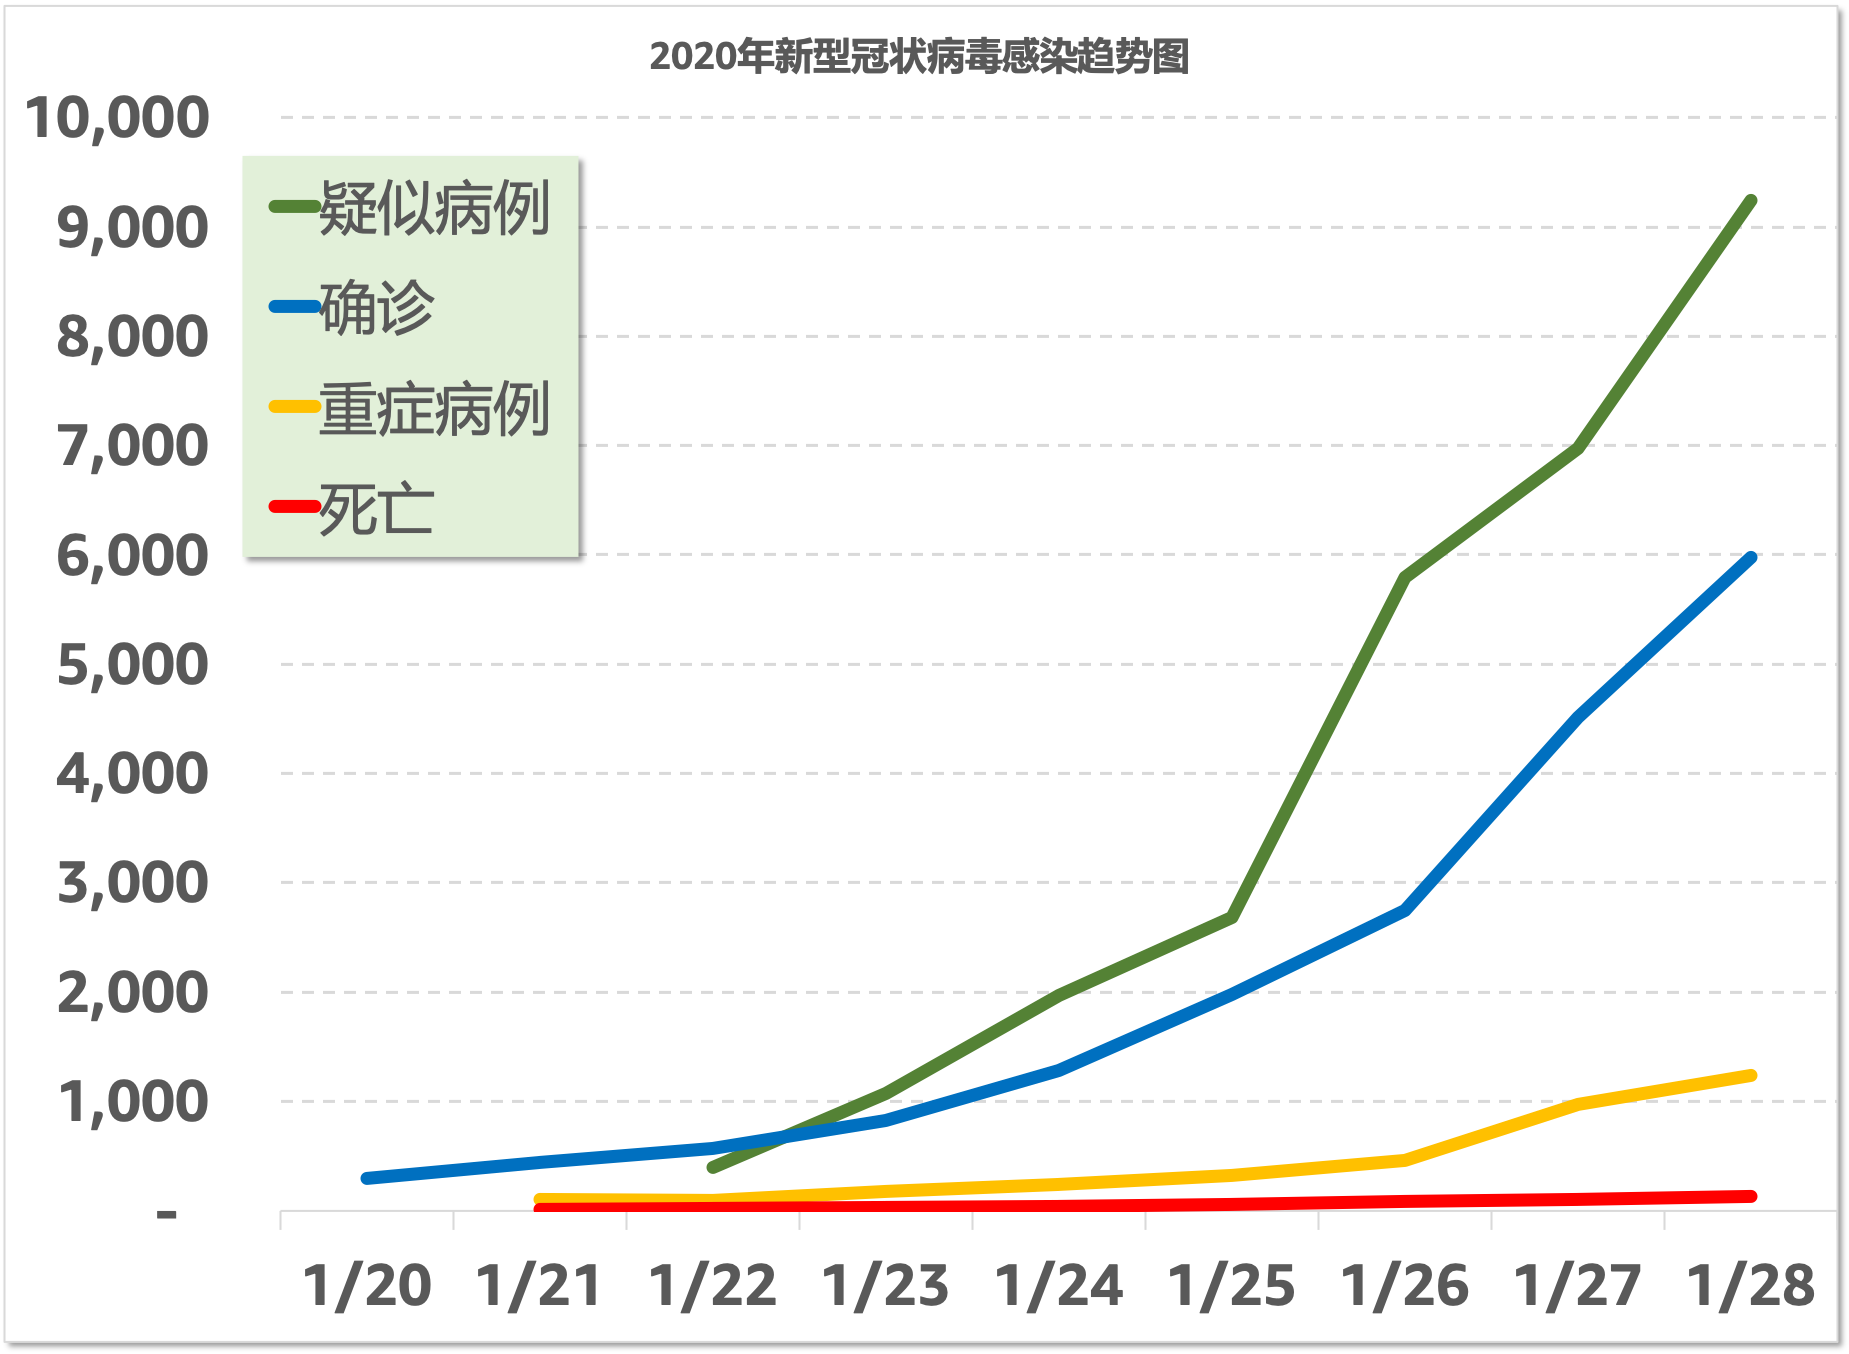
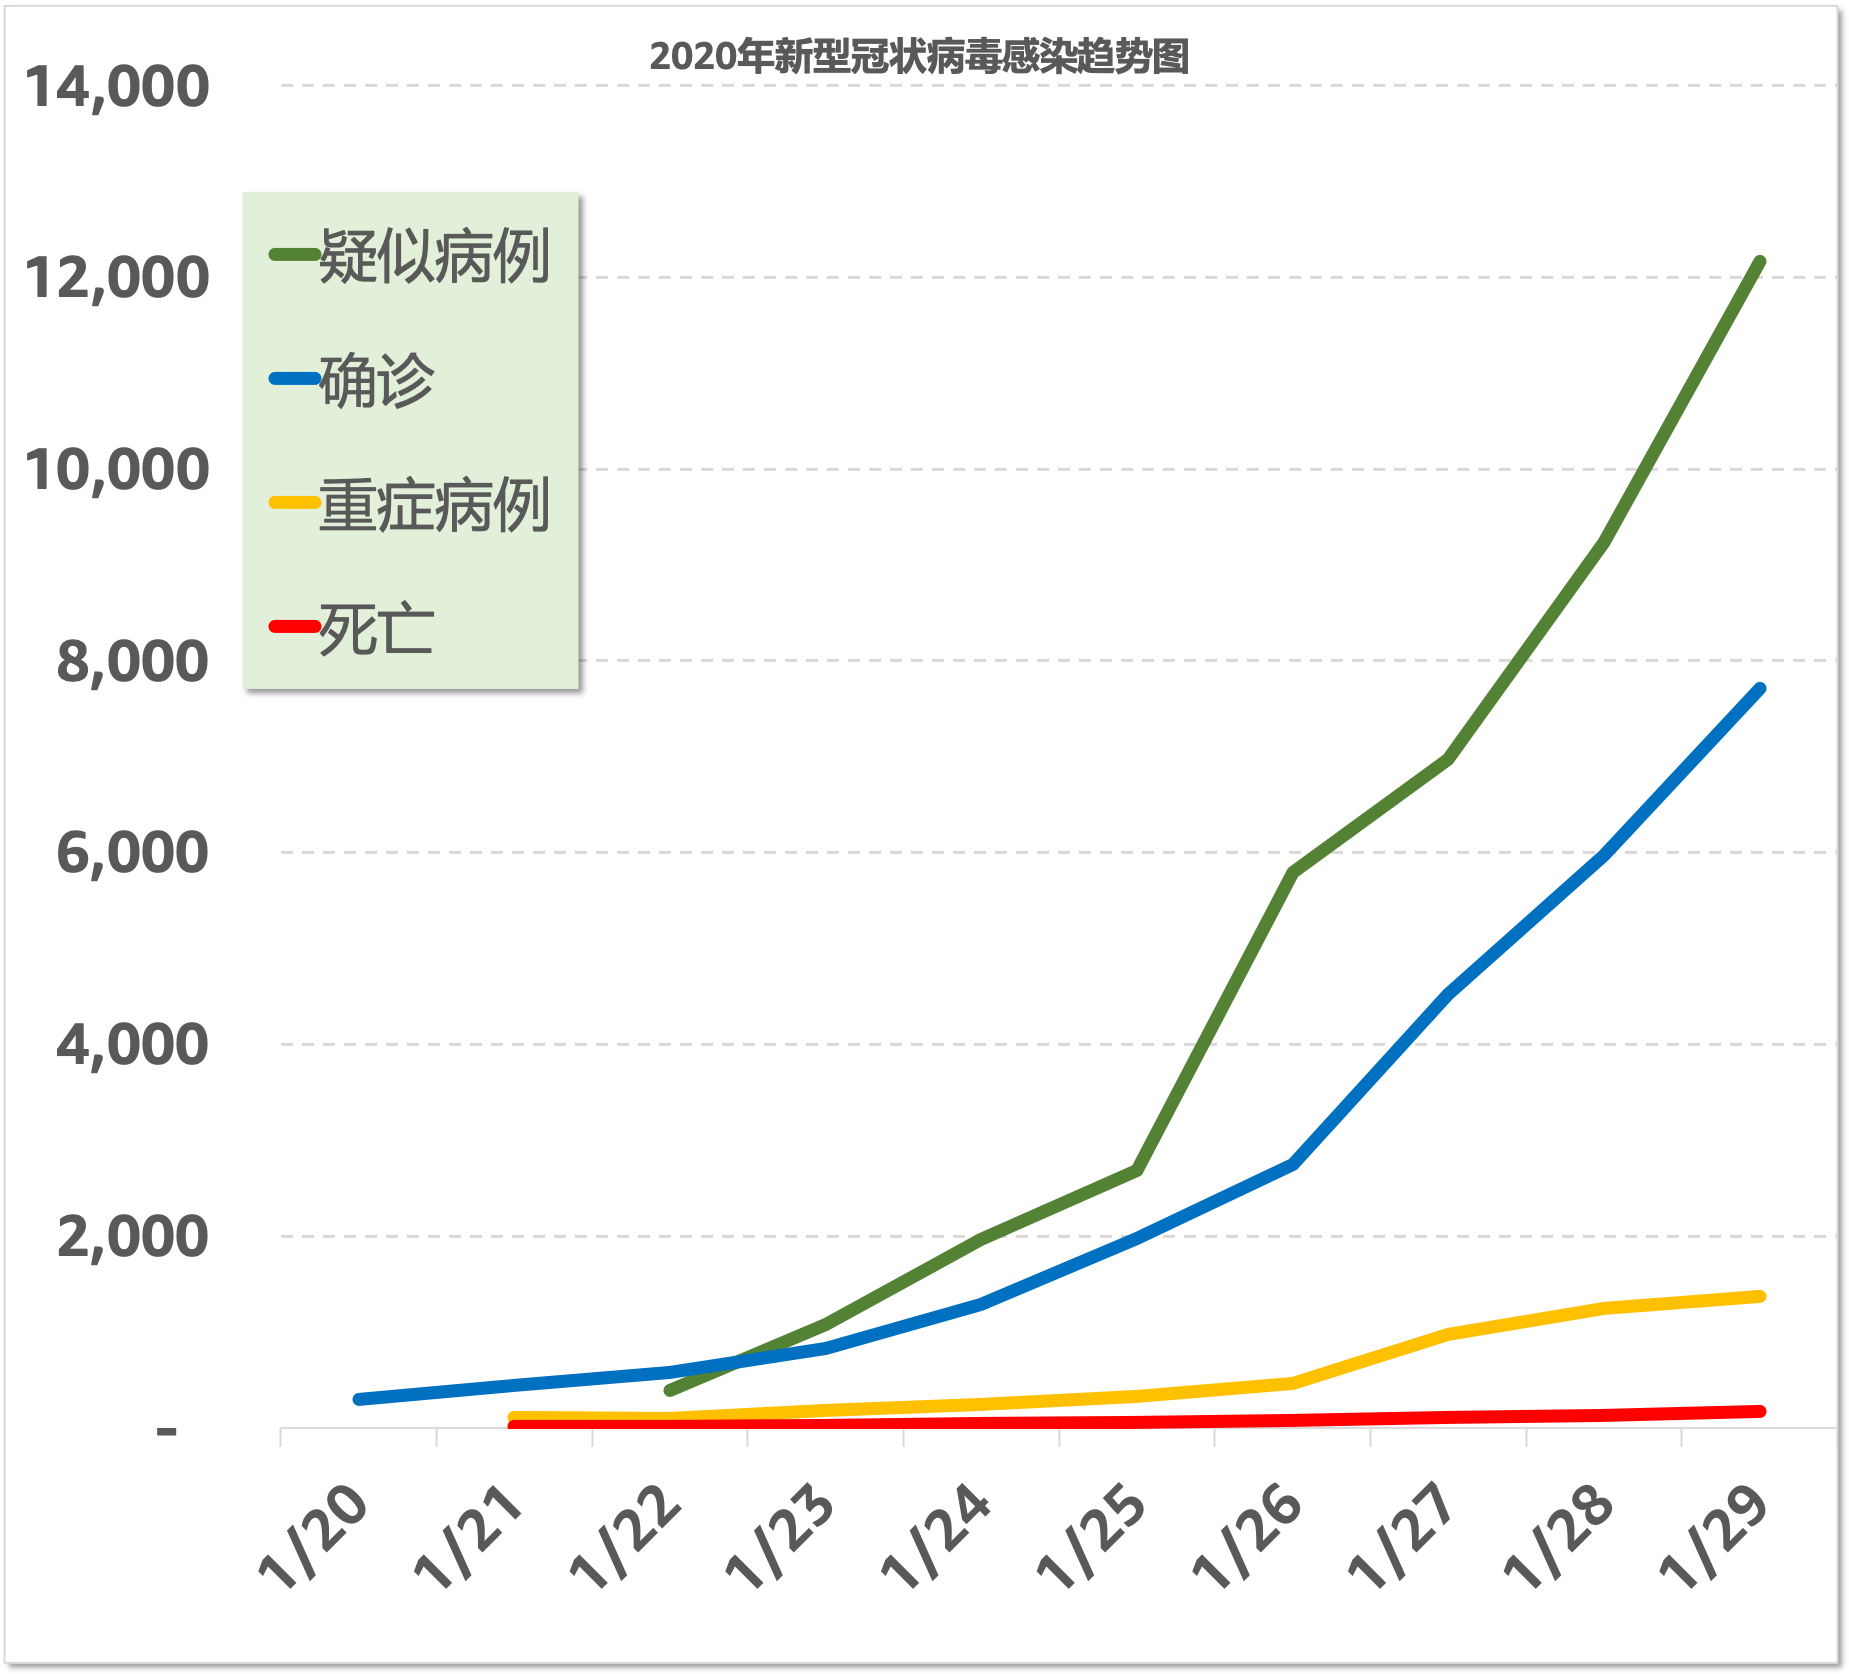
Update for Jan 29 data

diff --git a/README.md b/README.md
@@ -4,7 +4,7 @@
 
 这是根据卫建委发布的官方数据制作的每日疫情发展趋势图。每日830~930之间根据卫建委发布的最新疫情通报更新。
 
-- 更新时间: **`8:48, 1/29/2020`**
+- 更新时间: **`8:16, 1/30/2020`**
 - [网页地址](https://zire.github.io/pandemic2020/)
 - [Github Repo地址](https://github.com/zire/pandemic2020)
 - 数据来源：[中华人民共和国国家卫生健康委员会卫生应急办公室](http://www.nhc.gov.cn/)
@@ -23,6 +23,7 @@
 
 | 日期 | 密切接触 | 接受医学观察 | 疑似病例 | 确诊 | 重症病例 | 死亡 |
 | --- | --- | --- | --- | --- | --- | --- |
+|1/29/2020|88,693|81,947|12,167|7,711|1,370|170|
 |1/28/2020|65,537|59,990|9,239|5,974|1,239|132|
 |1/27/2020|47,833|44,132|6,973|4,515|976|106|
 |1/26/2020|32,799|30,453|5,794|2,744|461|80|
@@ -37,6 +38,7 @@
 
 | 日期 | 密切接触 | 接受医学观察 | 疑似病例 | 确诊 | 重症病例 | 死亡 | 死亡率|
 | --- | --- | --- | --- | --- | --- | --- | ---|
+|1/29/2020|35%|37%|32%|29%|11%|29%|2.20%|
 |1/28/2020|37%|36%|32%|32%|27%|25%|2.21%|
 |1/27/2020|46%|45%|20%|65%|112%|33%|2.35%|
 |1/26/2020|40%|41%|116%|39%|42%|43%|2.92%|
@@ -48,6 +50,7 @@
 
 ## 数据来源
 
+- [截至1月29日24时新型冠状病毒感染的肺炎疫情最新情况](http://www.nhc.gov.cn/xcs/yqtb/202001/e71bd2e7a0824ca69f87bbf1bef2a3c9.shtml)
 - [截至1月28日24时新型冠状病毒感染的肺炎疫情最新情况](http://www.nhc.gov.cn/xcs/yqtb/202001/1c259a68d81d40abb939a0781c1fe237.shtml)
 - [截至1月27日24时新型冠状病毒感染的肺炎疫情最新情况](http://www.nhc.gov.cn/xcs/yqtb/202001/ec9fe7ea987d467d9462e7db509079e6.shtml)
 - [截至1月26日24时新型冠状病毒感染的肺炎疫情最新情况](http://www.nhc.gov.cn/xcs/yqtb/202001/3882fdcdbfdc4b4fa4e3a829b62d518e.shtml)
